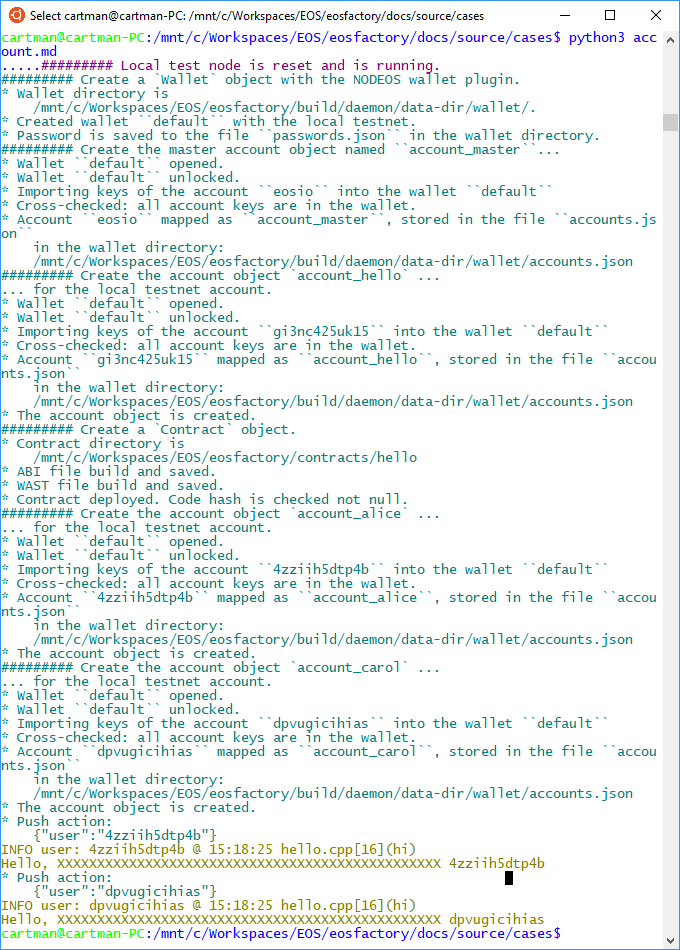
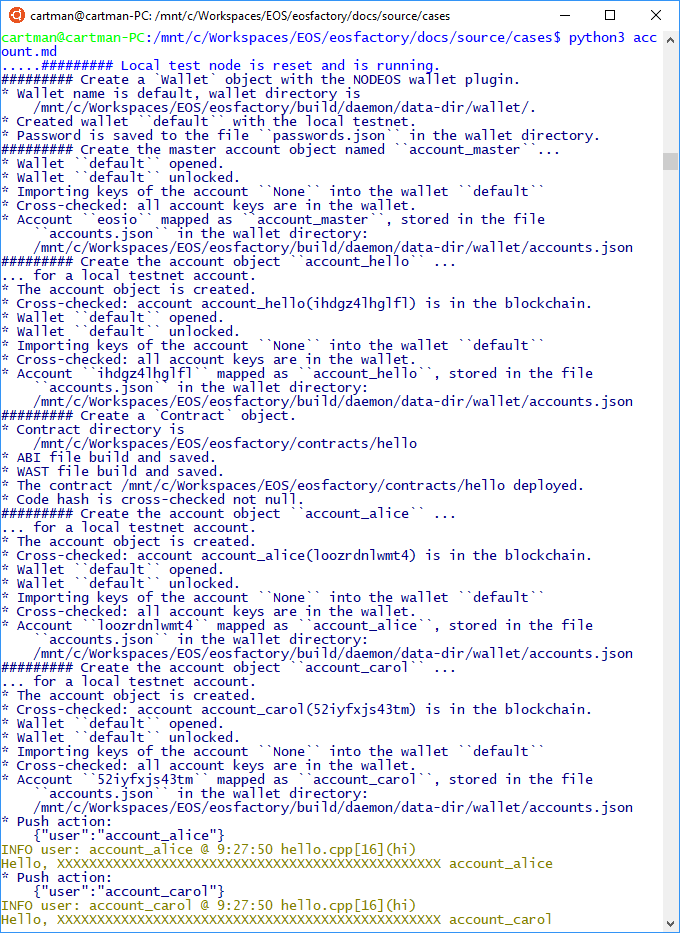
varies improvments

Changed region(s): [[0.0, 0.0, 0.9574, 0.9946], [0.9574, 0.0932, 1.0, 0.1865]]

diff --git a/tests/unittest_eosio_token_contract.py b/tests/unittest_eosio_token_contract.py
@@ -8,7 +8,7 @@ from eosf_wallet import Wallet
 from eosf_account import account_create, account_master_create
 from eosf_contract import Contract
 
-eosf.Logger.verbosity = [Verbosity.EOSF, Verbosity.OUT, Verbosity.DEBUG]
+eosf.Logger.verbosity = [Verbosity.EOSF, Verbosity.OUT]
 eosf.set_throw_error(False)
 _ = eosf.Logger()
 
@@ -51,6 +51,7 @@ NEXT TEST ====================================================================
         account_create("account_carol", account_master)
         account_create("account_eosio_token", account_master)
         contract_eosio_token = Contract(account_eosio_token, "token")
+        contract_eosio_token.build()
         deploy = contract_eosio_token.deploy()
 
         time.sleep(1)
@@ -69,7 +70,7 @@ NEXT TEST ====================================================================
                 "can_freeze": "0", 
                 "can_recall": "0", 
                 "can_whitelist": "0"
-            })
+            }, [account_master, account_eosio_token])
 
         self.assertTrue(
             '"maximum_supply": "1000000000.0000 EOS"' \
@@ -80,7 +81,7 @@ NEXT TEST ====================================================================
             {
                 "to": account_alice, "quantity": "100.0000 EOS", "memo": ""
             },
-            permission=account_master)        
+            account_master)        
 
         _.COMMENT("""
         Execute a series of transfers between accounts:
@@ -92,7 +93,7 @@ NEXT TEST ====================================================================
                 "from": account_alice, "to": account_carol,
                 "quantity": "25.0000 EOS", "memo":""
             },
-            permission=account_alice)
+            account_alice)
 
         account_eosio_token.push_action(
             "transfer",
@@ -100,7 +101,7 @@ NEXT TEST ====================================================================
                 "from": account_carol, "to": account_bob, 
                 "quantity": "11.0000 EOS", "memo": ""
             },
-            permission=account_carol)
+            account_carol)
 
         account_eosio_token.push_action(
             "transfer",
@@ -108,7 +109,7 @@ NEXT TEST ====================================================================
                 "from": account_carol, "to": account_bob, 
                 "quantity": "2.0000 EOS", "memo": ""
             },
-            permission=account_carol)
+            account_carol)
 
         account_eosio_token.push_action(
             "transfer",
@@ -116,7 +117,7 @@ NEXT TEST ====================================================================
                 "from": account_bob, "to": account_alice, \
                 "quantity": "2.0000 EOS", "memo":""
             },
-            permission=account_bob)                    
+            account_bob)                    
 
         _.COMMENT("""
         See the records of the account:

diff --git a/teos/teos_lib/control/build_contract.cpp b/teos/teos_lib/control/build_contract.cpp
@@ -440,11 +440,20 @@ R"(reg.exe query HKLM\Software\Classes\Applications\Code.exe\shell\open\command 
       bfs::path targetPath;
       bfs::path workdir;
       bfs::path workdir_build;
+      string extensions = ".h.hpp.hxx.c.cpp.cxx.c++";
 
       for (string file : srcs)
-      {  
+      { 
         bfs::path src_file(file);
+        string extension = src_file.extension().string();
+        boost::algorithm::to_lower(extension);
+        
+        if(extensions.find(extension) == string::npos){
+          continue;
+        }
+
         string name = codeName.empty() ? src_file.stem().string() : codeName;
+        
 
         if(targetPath.empty()) 
         { // Define target path once.
@@ -469,6 +478,7 @@ R"(reg.exe query HKLM\Software\Classes\Applications\Code.exe\shell\open\command 
           + " -I" + getSourceDir(this) + "/externals/magic_get/include"
           + " -I" + getEOSIO_BOOST_INCLUDE_DIR(this)
           + " -I" + getSourceDir(this) + "/contracts"
+          + " -I" + getSourceDir(this) + "/build/contracts"
           + " -I" + sourceDir;
 
         if(!include_dir.empty())
@@ -481,9 +491,11 @@ R"(reg.exe query HKLM\Software\Classes\Applications\Code.exe\shell\open\command 
         }        
 
         command_line += " -c " + file + " -o " + output.string();
-
-        //cout << "command line clang:" << endl << command_line << endl;
-
+        string decoration = string("_") + src_file.filename().string();
+        respJson_.put("command_line" + decoration, command_line);
+        // cout << command_line.c_str() << endl;
+        // cout << respJson_.get("command_line" + decoration, "ERROR") << endl;
+        // cout << responseToString(false) << endl;
         if(!process(command_line, this)){
           bfs::remove_all(workdir);
           return;

diff --git a/pyteos/teos.py b/pyteos/teos.py
@@ -34,18 +34,14 @@ class _Teos:
     Each control class represents a call to a Tokenika `teos` instance that
     is launched to responce just the call. 
     """
-    global setup_setup
-
-    error = False
-    err_msg = ""
-    is_verbose = True
-    json = json_module.loads("{}")
-
     def __init__(
                 self, jarg, first, second, 
                 is_verbose_arg=True):
 
-        self.jarg = jarg     
+        self.jarg = jarg
+        self.json = {}
+        self.error = False
+        self.err_msg = ""     
 
         cl = [setup_setup.teos_exe, first, second,
             "--jarg", str(self.jarg).replace("'", '"'), "--both"]
@@ -183,7 +179,8 @@ class ABI(_Teos):
 
 class WAST(_Teos):
     def __init__(
-            self, source, code_name="", include_dir="", is_verbose=1):
+            self, source, code_name="", include_dir="", is_verbose=1, 
+            json=False):
 
         try:
             source = source.contract_dir
@@ -195,7 +192,8 @@ class WAST(_Teos):
         jarg["includeDir"] = include_dir
         jarg["codeName"] = code_name
         jarg["compileOnly"] = "0"
-
+        if json:
+            jarg["json"] = "1"
         _Teos.__init__(self, jarg, "build", "contract", is_verbose)        
 
 class NodeStart(_Teos):

diff --git a/teos/teos_lib/include/teoslib/control.hpp b/teos/teos_lib/include/teoslib/control.hpp
@@ -163,10 +163,7 @@ namespace teos
         if(command.errorMsg().length() > string(teos_ERROR).length() + 1){      
           cout << teos_ERROR << endl << command.errorMsg() << endl;
         }
-        if (vm.count("json"))
-        {
-          cout << command.responseToString(false) << endl;
-        }
+        cerr << command.responseToString(false) << endl;
         return;
       }
 
@@ -178,7 +175,7 @@ namespace teos
         if (vm.count("arg")) {
           cout << command.requestToString(isRaw) << endl;
         }
-        if (vm.count("json")) {
+        if (vm.count("json") || reqJson_.get("json", 0)) {
           cout << command.responseToString(isRaw) << endl;
         }
         else {

diff --git a/pyteos/tests/unittest_account_master.py b/pyteos/tests/unittest_account_master.py
@@ -153,7 +153,7 @@ NEXT TEST ====================================================================
     #     eosf.use_keosd(True)
     #     setup.set_nodeos_address(remote_testnet)
     #     wallet = Wallet(
-    #         "default",
+    #         None,
     #         "PW5J5KW7erKzqJmn9gMrvzev4pLxR3Vt9BRkx94BqdfHkw4z4bNTd"
     #         )
 
@@ -200,7 +200,7 @@ NEXT TEST ====================================================================
         eosf.use_keosd(True)
         setup.set_nodeos_address(remote_testnet)
         wallet = Wallet(
-            "default",
+            None,
             "PW5J5KW7erKzqJmn9gMrvzev4pLxR3Vt9BRkx94BqdfHkw4z4bNTd"
             )
 

diff --git a/pyteos/eosf_contract.py b/pyteos/eosf_contract.py
@@ -32,13 +32,15 @@ class ContractBuilder(eosf.Logger):
 
     def build_wast(self, json=False):
         if self.is_mutable:
-            result = teos.WAST( self.contract_dir, "", is_verbose=0)
+            result = teos.WAST( 
+                self.contract_dir, "", is_verbose=0, json=json)
+            
             if not self.ERROR(result):
                 self.EOSF_TRACE("""
                 * WAST file build and saved.
                 """)
-                if json:
-                    return result.json
+            if json:
+                return result.json
         else:
             self.ERROR("Cannot modify system contracts.")
 

diff --git a/pyteos/setup.py b/pyteos/setup.py
@@ -1,5 +1,6 @@
 #!/usr/bin/python3
 
+import re
 import os
 import json
 
@@ -13,6 +14,17 @@ _is_local_address = False
 _is_use_keosd = False
 account_map = "accounts.json"
 password_map = "passwords.json"
+wallet_default_name = "default"
+
+def remote_testnet_setup(remote_testnet):
+    set_nodeos_address(remote_testnet)
+    prefix = re.sub("\.|\:|-", "_", remote_testnet) + "_"
+    global account_map
+    account_map = prefix + account_map
+    global password_map
+    password_map = prefix + password_map
+    global wallet_default_name
+    wallet_default_name = prefix + wallet_default_name
 
 def restart():
     global _nodeos_address

diff --git a/pyteos/user_data.py b/pyteos/user_data.py
@@ -1,11 +1,9 @@
 # remote_testnet = "api.kylin-testnet.eospace.io"
-# WALLET_NAME = "VhZNXMGZ48Ti7u84nDnyq87rv"
 # ACCOUNT_NAME = "dgxo1uyhoytn"
 # OWNER_KEY = "5K4rezbmuoDUyBUntM3PqxwutPU3rYKrNzgF4f3djQDjfXF3Q67"
 # ACTIVE_KEY = "5JCvLMJVR24WWvC6qD6VbLpdUMsjhiXmcrk4i7bdPfjDfNMNAeX"
 
 remote_testnet = "88.99.97.30:38888" # cryptolion
-WALLET_NAME = "VhZNXMGZ48Ti7u84nDnyq87rv"
 ACCOUNT_NAME = "dgxo1uyhoytn"
 OWNER_KEY = "5JE9XSurh4Bmdw8Ynz72Eh6ZCKrxf63SmQWKrYJSXf1dEnoiKFY"
 ACTIVE_KEY = "5JgLo7jZhmY4huDNXwExmaWQJqyS1hGZrnSjECcpWwGU25Ym8tA"

diff --git a/pyteos/eosf_wallet.py b/pyteos/eosf_wallet.py
@@ -57,9 +57,11 @@ class Wallet(eosf.Logger, cleos.WalletCreate):
 
     wallet_keys = None
   
-    def __init__(self, name="default", password="", verbosity=None):
+    def __init__(self, name=None, password="", verbosity=None):
         eosf.Logger.__init__(self, verbosity)
-        
+        if name is None:
+            name = setup.wallet_default_name
+
         global wallet
         if not wallet is None:
             self.ERROR("""

diff --git a/pyteos/eosf.py b/pyteos/eosf.py
@@ -246,8 +246,8 @@ class Logger():
         else:
             color = Verbosity.ERROR.value
 
-        
-
+        from eosf_account import decodeObjectNames
+        msg = decodeObjectNames(msg)
         msg = colored(
             "ERROR:\n{}".format(cleos.heredoc(msg)), 
             color[0], color[1], attrs=color[2])  + "\n"

diff --git a/pyteos/tests/unittest_wallet.py b/pyteos/tests/unittest_wallet.py
@@ -96,7 +96,7 @@ Tests:
     #     eosf.run(is_verbose=0)        
         
     #     wallet = eosf.Wallet(
-    #         "default", "EOS6MRyAjQq8ud7hVNYcfnVPJqcVpscN5So8BhtHuGYqET5GDW5CV")
+    #         None, "EOS6MRyAjQq8ud7hVNYcfnVPJqcVpscN5So8BhtHuGYqET5GDW5CV")
     #     self.assertTrue(wallet.error)
 
 

diff --git a/pyteos/eosf_account.py b/pyteos/eosf_account.py
@@ -734,7 +734,7 @@ def account_create(
         return
         
     if wallet_singleton.is_name_taken(account_object_name, account_name):
-        return wallet_singleton
+        return
 
     """
     Create an account object.
